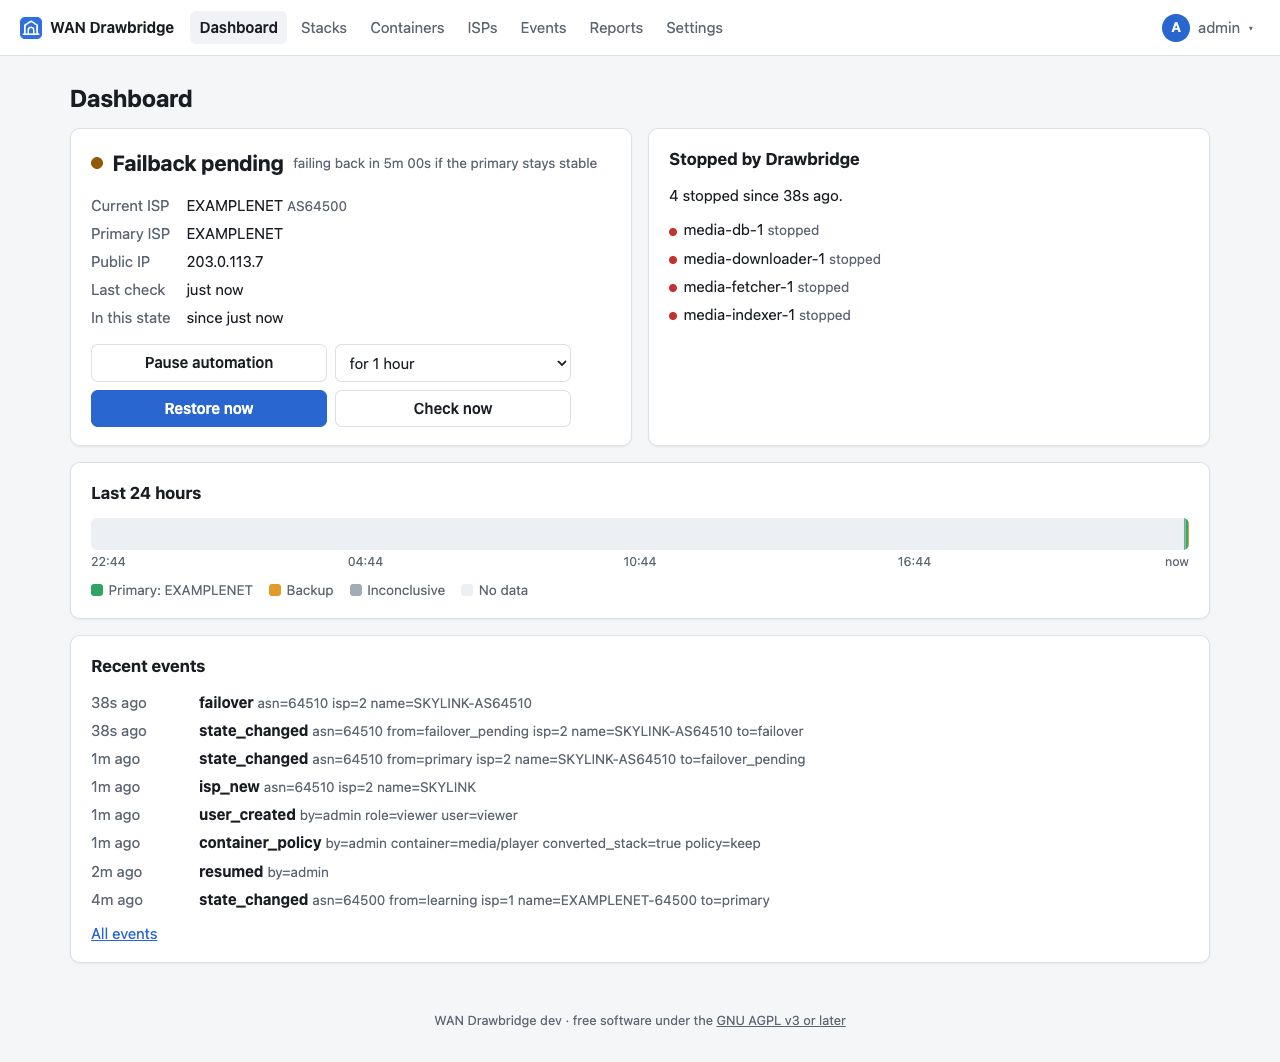
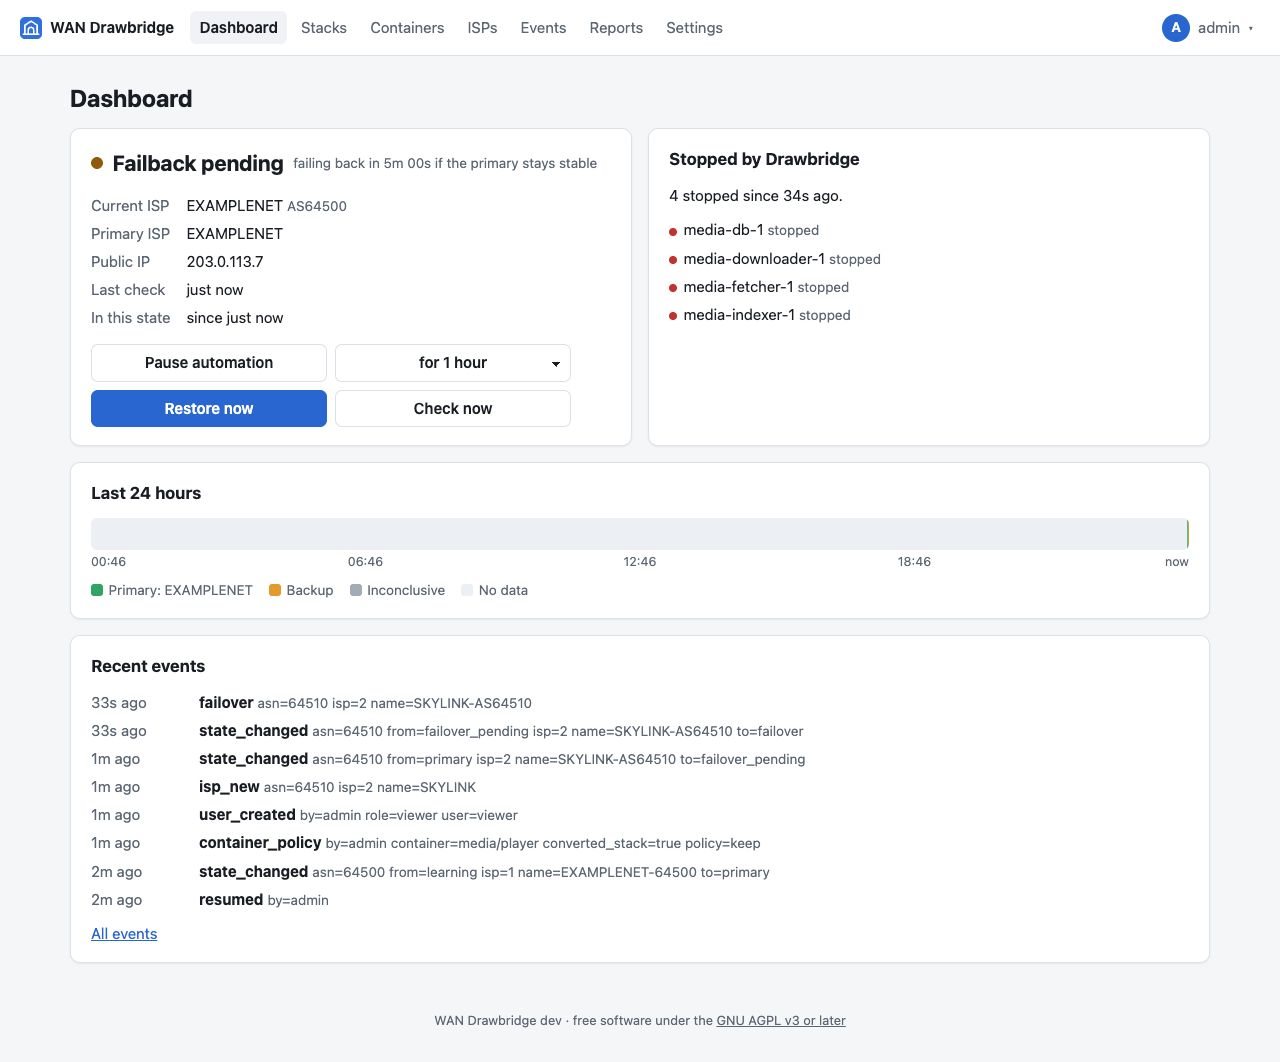
Centre the dashboard duration lists like the buttons

Changed region(s): [[0.1562, 0.8079, 0.5938, 0.8701], [0.0625, 0.839, 0.0938, 0.8701]]

diff --git a/internal/web/static/app.css b/internal/web/static/app.css
@@ -225,6 +225,15 @@ main.narrow { max-width: 420px; padding-top: 12vh; }
 .actions .wide { grid-column: span 2; }
 .actions .pause { grid-column: span 2; display: grid; grid-template-columns: subgrid; }
 .actions button, .actions select { width: 100%; margin: 0; }
+/* The native arrow takes room on the right only, so draw it in the padding
+   instead: equal padding both sides centres the text like the buttons'. */
+.actions select {
+  appearance: none; text-align: center; text-align-last: center; font-weight: 600;
+  padding: 0.5rem 1.4rem; line-height: 1.3; cursor: pointer;
+  background-image: linear-gradient(45deg, transparent 50%, currentColor 50%), linear-gradient(135deg, currentColor 50%, transparent 50%);
+  background-position: calc(100% - 0.85rem) 55%, calc(100% - 0.55rem) 55%;
+  background-size: 0.3rem 0.3rem; background-repeat: no-repeat;
+}
 .right { text-align: right; }
 .nowrap { white-space: nowrap; }
 .narrow-form { max-width: 360px; }
